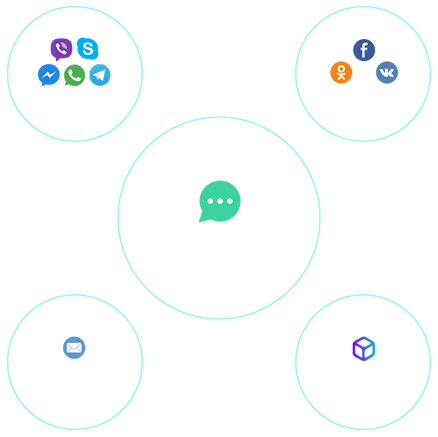
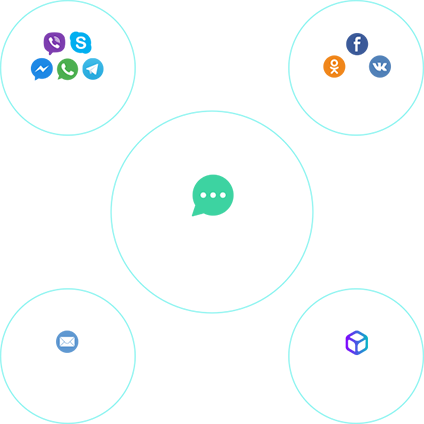
made intro block

diff --git a/css/screen.css b/css/screen.css
@@ -56,7 +56,6 @@ body {
 .header__menu {
   margin-left: auto;
   align-self: flex-end;
-  /*min-width: 500px;*/
   transition: 0.5s ease-out max-height;
 }
 
@@ -104,6 +103,46 @@ body {
   opacity: 0.9;
 }
 
+.intro__inner {
+  display: flex;
+  justify-content: space-between;
+}
+
+.intro__main {
+  flex: 0 1 50%;
+  padding: 184px 0 174px 17px;
+}
+
+.intro__text {
+  color: #fff;
+  font-size: 34px;
+  line-height: 42px;
+  letter-spacing: 0.85px;
+  padding: 0 0 71px 3px;
+}
+
+.intro__button {
+  display: block;
+  color: #fff;
+  font-size: 16px;
+  letter-spacing: 0.4px;
+  border-radius: 28px;
+  background: #0facbb;
+  border: none;
+  padding: 19px 37px 18px;
+}
+
+.intro__picture {
+  flex: 0 1 50%;
+  padding: 76px 0 0 74px;
+}
+
+.in_pic {
+  width: 100%;
+  background: url("../images/img_01_x2.png") no-repeat;
+  background-size: contain;
+}
+
 .main {
   display: flex;
   flex-direction: column;
@@ -134,6 +173,7 @@ body {
   .header__description {
     max-width: 205px;
   }
+
 }
 
 @media (max-width: 923px) {
@@ -164,6 +204,20 @@ body {
 
   .menu--show {
     max-height: 500px;
+  }
+
+  .intro__main {
+    flex: 0 1 66%;
+    padding: 48px 0 31px;
+  }
+
+  .intro__picture {
+    flex: 0 1 33%;
+    padding: 57px 0 0 24px;
+  }
+
+  .intro__text {
+    padding-bottom: 38px;
   }
 }
 
@@ -196,5 +250,31 @@ body {
 
   .js-menu {
     order: 2;
+  }
+
+  .intro__inner {
+    flex-direction: column;
+  }
+
+  .intro__main {
+    order: 2;
+  }
+
+  .intro__text {
+    font-size: 22px;
+    line-height: 36px;
+    letter-spacing: 0.55px;
+    text-align: center;
+  }
+
+  .intro__button {
+    border-radius: 31px;
+    margin: 0 auto;
+  }
+
+  .intro__picture {
+    padding: 57px 0 0;
+    text-align: center;
+    order: 1;
   }
 }

diff --git a/index.html b/index.html
@@ -38,13 +38,25 @@
             <a href="#" class="nav__link">Стоимость</a>
           </nav>
           <div class="header__button-wrapper"><button class="header__button">Регистрация</button></div>
-
         </div>
       </div>
     </header>
-    <div class="intro">Intro</div>
+    <div class="intro">
+      <div class="inner intro__inner">
+        <div class="intro__main">
+          <div class="intro__text">
+            Принимайте обращения
+            клиентов из разных каналов
+            в одном сервисе
+          </div>
+          <button class="intro__button">Начать обрабатывать заявки с Webim</button>
+        </div>
+        <div class="intro__picture">
+          <img src="images/img_01_x1.png" srcset="images/img_01_x2.png 2x" alt="social networks diagramm" class="intro__img">
+        </div>
+      </div>
+    </div>
   </div>
-
   <main class="main">
   </main>
   <footer class="footer">
